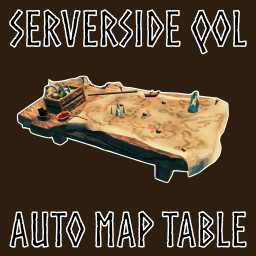
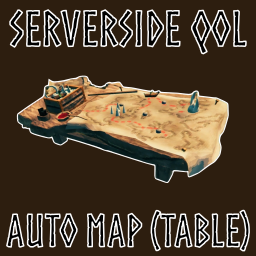
Add granular pin target config and ref struct updates
Added config options for dungeon/ore pin targets (map tables, player maps, or both) via new PinTargets enum. Updated AutoMapTablesProcessor and pin logic to respect these settings. Added RPC for adding pins to player maps and extended ZDORpc.PlayerRpc with AddMapPin. Changed several structs to ref struct for safety/performance. Improved docs and made minor SVG/icon text tweaks.

Changed region(s): [[0.0, 0.8125, 1.0, 1.0]]

diff --git a/ServersideQoL.AutoMapTables/AutoMapTablesProcessor.cs b/ServersideQoL.AutoMapTables/AutoMapTablesProcessor.cs
@@ -1,6 +1,5 @@
 using ServersideQoL.Processors;
 using ServersideQoL.Utilities;
-using System.ComponentModel;
 using UnityEngine;
 using YamlDotNet.Core.Tokens;
 
@@ -243,9 +242,15 @@ public sealed class AutoMapTablesProcessor : Processor<AutoMapTablesProcessor.Pr
         zdo.Destroyed += OnOreDepositDestroyed;
         ids ??= __playerIDsVar.Get(zdo) ?? [];
         ids.Add(playerID);
-        playerState.UpToDateMapTables.Clear();
-        if (prefabInfo.MineRockPinConfig.PinType.Value is not Minimap.PinType.None)
-          ShowMessage([peer], zdo, Config.Instance.Localization.Value.Discovered(prefabInfo.MineRock5.m_name), Config.Instance.DiscoveredMessageType.Value);
+
+        if (prefabInfo.MineRockPinConfig.PinType.Value is Minimap.PinType.None)
+          continue;
+
+        ShowMessage([peer], zdo, Config.Instance.Localization.Value.Discovered(prefabInfo.MineRock5.m_name), Config.Instance.DiscoveredMessageType.Value);
+        if ((Config.Instance.OreDepositsPinTarget.Value & Config.PinTargets.MapTable) is not 0)
+          playerState.UpToDateMapTables.Clear();
+        if ((Config.Instance.OreDepositsPinTarget.Value & Config.PinTargets.DiscoveringPlayer) is not 0)
+          RPC.DiscoverLocationResponse(peer.ZNetPeer.m_uid, prefabInfo.MineRockPinConfig.Label.Value, prefabInfo.MineRockPinConfig.PinType.Value, zdo.ZDO.GetPosition(), showMap: false);
       }
       if (ids is not null)
         __playerIDsVar.Set(zdo, ids);
@@ -282,9 +287,15 @@ public sealed class AutoMapTablesProcessor : Processor<AutoMapTablesProcessor.Pr
             continue;
           ids ??= __playerIDsVar.Get(zdo) ?? [];
           ids.Add(playerID);
-          playerState.UpToDateMapTables.Clear();
-          if (Config.Instance.DungeonsPinType.Value is not Minimap.PinType.None)
-            ShowMessage([peer], zdo, Config.Instance.Localization.Value.Discovered(component.m_enterText), Config.Instance.DiscoveredMessageType.Value);
+
+          if (Config.Instance.DungeonsPinType.Value is Minimap.PinType.None)
+            continue;
+
+          ShowMessage([peer], zdo, Config.Instance.Localization.Value.Discovered(component.m_enterText), Config.Instance.DiscoveredMessageType.Value);
+          if ((Config.Instance.DungeonsPinTarget.Value & Config.PinTargets.MapTable) is not 0)
+            playerState.UpToDateMapTables.Clear();
+          if ((Config.Instance.DungeonsPinTarget.Value & Config.PinTargets.DiscoveringPlayer) is not 0)
+            RPC.DiscoverLocationResponse(peer.ZNetPeer.m_uid, Config.Instance.DungeonsLabel.Value is Config.DefaultOreDepositName ? component.m_enterText : Config.Instance.DungeonsLabel.Value, Config.Instance.DungeonsPinType.Value, zdo.ZDO.GetPosition(), showMap: false);
         }
 
         break;
@@ -398,7 +409,7 @@ public sealed class AutoMapTablesProcessor : Processor<AutoMapTablesProcessor.Pr
           _pins.Add(new(playerState.PlayerID.AsModPlayerID(), GetProcessorPrefabInfo(zdo)!.Piece!.m_name, zdo.ZDO.GetPosition(), Config.Instance.ShipsPinType.Value, false, AutoMapTablesPlugin.PluginGuid));
       }
 
-      if (_oreDepositPins.Count is not 0)
+      if (_oreDepositPins.Count is not 0 && (Config.Instance.OreDepositsPinTarget.Value & Config.PinTargets.MapTable) is not 0)
       {
         foreach (var zdo in playerState.OreVeins)
         {
@@ -407,7 +418,7 @@ public sealed class AutoMapTablesProcessor : Processor<AutoMapTablesProcessor.Pr
         }
       }
 
-      if (Config.Instance.DungeonsPinType.Value is not Minimap.PinType.None)
+      if (Config.Instance.DungeonsPinType.Value is not Minimap.PinType.None && (Config.Instance.DungeonsPinTarget.Value & Config.PinTargets.MapTable) is not 0)
       {
         List<(ServersideQoLZDO, Vector3, string)>? updatedPos = null;
         foreach (var (zdo, nullableValue) in playerState.Dungeons)
@@ -519,7 +530,7 @@ public sealed class AutoMapTablesProcessor : Processor<AutoMapTablesProcessor.Pr
     {
       if (!_playerStates.TryGetValue(id, out var state))
         continue;
-      if (state.OreVeins.Remove(zdo))
+      if (state.OreVeins.Remove(zdo) && (Config.Instance.OreDepositsPinTarget.Value & Config.PinTargets.MapTable) is not 0)
         state.UpToDateMapTables.Clear();
     }
   }

diff --git a/ServersideQoL/ServersideQoLZDO.ZDORpc.cs b/ServersideQoL/ServersideQoLZDO.ZDORpc.cs
@@ -1,5 +1,4 @@
 using ServersideQoL.Utilities;
-using System.Runtime.CompilerServices;
 using UnityEngine;
 using static ServersideQoL.RPC;
 
@@ -9,12 +8,12 @@ partial class ServersideQoLZDO
 {
   public ZDORpc RPC => new(this);
 
-  public readonly struct ZDORpc(ServersideQoLZDO zdo)
+  public readonly ref struct ZDORpc(ServersideQoLZDO zdo)
   {
     readonly ServersideQoLZDO _zdo = zdo;
 
     public PlayerRpc Player => new(_zdo);
-    public readonly struct PlayerRpc(ServersideQoLZDO zdo)
+    public readonly ref struct PlayerRpc(ServersideQoLZDO zdo)
     {
       readonly ZDO _zdo = AssertAndGetZDO<Player>(zdo);
 
@@ -25,10 +24,13 @@ partial class ServersideQoLZDO
       /// <see cref="Player.TeleportTo(Vector3, Quaternion, bool)"/>
       public void TeleportTo(Vector3 pos, Quaternion rot, bool distantTeleport)
         => InvokeRoutedRPC(_zdo.GetOwner(), _zdo.m_uid, RpcName.Player.TeleportTo, parameters: [pos, rot, distantTeleport]);
+
+      public void AddMapPin(string pinName, Minimap.PinType pinType, Vector3 pos, bool showMap)
+        => DiscoverLocationResponse(_zdo.GetOwner(), pinName, pinType, pos, showMap);
     }
 
     public CharacterRpc Character => new(_zdo);
-    public readonly struct CharacterRpc(ServersideQoLZDO zdo)
+    public readonly ref struct CharacterRpc(ServersideQoLZDO zdo)
     {
       readonly ZDO _zdo = AssertAndGetZDO<Character>(zdo);
 
@@ -46,7 +48,7 @@ partial class ServersideQoLZDO
     }
 
     public ContainerRpc Container => new(_zdo);
-    public readonly struct ContainerRpc(ServersideQoLZDO zdo)
+    public readonly ref struct ContainerRpc(ServersideQoLZDO zdo)
     {
       readonly ZDO _zdo = AssertAndGetZDO<Container>(zdo);
 
@@ -85,7 +87,7 @@ partial class ServersideQoLZDO
     }
 
     public TeleportWorldRpc TeleportWorld => new(_zdo);
-    public readonly struct TeleportWorldRpc(ServersideQoLZDO zdo)
+    public readonly ref struct TeleportWorldRpc(ServersideQoLZDO zdo)
     {
       readonly ZDO _zdo = AssertAndGetZDO<TeleportWorld>(zdo);
 
@@ -95,7 +97,7 @@ partial class ServersideQoLZDO
     }
 
     public PieceRpc Piece => new(_zdo);
-    public readonly struct PieceRpc(ServersideQoLZDO zdo)
+    public readonly ref struct PieceRpc(ServersideQoLZDO zdo)
     {
       readonly ZDO _zdo = AssertAndGetZDO<Piece>(zdo);
 
@@ -105,7 +107,7 @@ partial class ServersideQoLZDO
     }
 
     public ItemDropRpc ItemDrop => new(_zdo);
-    public readonly struct ItemDropRpc(ServersideQoLZDO zdo)
+    public readonly ref struct ItemDropRpc(ServersideQoLZDO zdo)
     {
       readonly ZDO _zdo = AssertAndGetZDO<ItemDrop>(zdo);
 
@@ -115,7 +117,7 @@ partial class ServersideQoLZDO
     }
 
     public TrapRpc Trap => new(_zdo);
-    public readonly struct TrapRpc(ServersideQoLZDO zdo)
+    public readonly ref struct TrapRpc(ServersideQoLZDO zdo)
     {
       readonly ZDO _zdo = AssertAndGetZDO<Trap>(zdo);
 
@@ -126,7 +128,7 @@ partial class ServersideQoLZDO
     }
 
     public MineRock5Rpc MineRock5 => new(_zdo);
-    public readonly struct MineRock5Rpc(ServersideQoLZDO zdo)
+    public readonly ref struct MineRock5Rpc(ServersideQoLZDO zdo)
     {
       readonly ZDO _zdo = AssertAndGetZDO<MineRock5>(zdo);
 

diff --git a/ServersideQoL.AutoMapTables/Config.cs b/ServersideQoL.AutoMapTables/Config.cs
@@ -16,15 +16,23 @@ public sealed class Config(ConfigFile cfg, Logger logger) : ConfigBase<Config>(c
   public ConfigEntry<Minimap.PinType> ShipsPinType { get; } = BindEx(cfg, Minimap.PinType.Player,
     "The pin type for ships on the map table", new AcceptableEnum<Minimap.PinType>([..__acceptablePins.AcceptableValues, Minimap.PinType.Player]));
   public ConfigEntry<Minimap.PinType> DungeonsPinType { get; } = BindEx(cfg, Minimap.PinType.Icon2,
-    "The pin type for dungeons on the map table", __acceptablePins);
+    "The pin type for dungeons on the map table", __acceptablePins);    
   public ConfigEntry<string> DungeonsLabel { get; } = BindEx(cfg, DefaultOreDepositName,
     "The pin label for dungeons");
+  public ConfigEntry<PinTargets> DungeonsPinTarget { get; } = BindEx(cfg, PinTargets.MapTable, """
+    Whether to add the pin to map tables, the map of the discovering player or both.
+    WARNING: Pins added to player maps can only be removed by the players themselves and will remain even if the mod is removed.
+    """);
   public ConfigEntry<float> DungeonsDiscoverRange { get; } = BindEx(cfg, 4f,
     "A dungeon is considered 'discovered by a player' when that player is detected within this range around the entrance");
 
   public sealed record OreDepositConfig(ConfigEntry<Minimap.PinType> PinType, ConfigEntry<string> Label);
   public IReadOnlyDictionary<int, OreDepositConfig> AutoUpdateOreDeposits { get; } = GetPrefabPinConfig(cfg, logger) ?? EmptyReadOnlyCollections<int, OreDepositConfig>.Dictionary;
 
+  public ConfigEntry<PinTargets> OreDepositsPinTarget { get; } = BindEx(cfg, PinTargets.MapTable, """
+    Whether to add the pin to map tables, the map of the discovering player or both.
+    WARNING: Pins added to player maps can only be removed by the players themselves and will remain even if the mod is removed.
+    """);
   public ConfigEntry<float> OreDepositsDiscoverRange { get; } = BindEx(cfg, ZoneSystem.c_ZoneSizeHalf,
     "An ore deposit is considered 'discovered by a player' when that player was within this range around the deposit while it was struck by a pickaxe");
 
@@ -36,6 +44,14 @@ public sealed class Config(ConfigFile cfg, Logger logger) : ConfigBase<Config>(c
     "True to discard custom player pins from map tables");
   public YamlConfigEntry<LocalizationConfig> Localization { get; } = BindYaml<LocalizationConfig>(cfg);
   public YamlConfigEntry<AdvancedConfig> Advanced { get; } = BindYaml<AdvancedConfig>(cfg);
+
+  [Flags]
+  public enum PinTargets
+  {
+    MapTable = 1 << 0,
+    DiscoveringPlayer = 1 << 1,
+    //AllPlayers = 1 << 2,
+  }
 
   public sealed class LocalizationConfig
   {

diff --git a/ServersideQoL/RPC.cs b/ServersideQoL/RPC.cs
@@ -36,6 +36,11 @@ public static class RPC
       public static RpcName GlobalKeys { get; } = new("GlobalKeys");
     }
 
+    public static class Game
+    {
+      public static RpcName DiscoverLocationResponse { get; } = new("RPC_DiscoverLocationResponse");
+    }
+
     public static class DamageText
     {
       public static RpcName RPC_DamageText { get; } = new("RPC_DamageText");
@@ -149,11 +154,9 @@ public static class RPC
   //public static void ShowInWorldText(Peer peer, DamageText.TextType type, Vector3 pos, string text)
   //    => ShowInWorldText([peer.m_uid], type, pos, text);
 
+  /// <see cref="Chat.TeleportPlayer(long, Vector3, Quaternion, bool)"/>
   static void TeleportPlayer(long targetPeerID, Vector3 pos, Quaternion rot, bool distantTeleport)
-  {
-    /// <see cref="Chat.TeleportPlayer(long, Vector3, Quaternion, bool)"/>
-    InvokeRoutedRPC(targetPeerID, RpcName.Chat.TeleportPlayer, parameters: [pos, rot, distantTeleport]);
-  }
+    => InvokeRoutedRPC(targetPeerID, RpcName.Chat.TeleportPlayer, parameters: [pos, rot, distantTeleport]);
 
   public static void TeleportPlayer(Peer peer, Vector3 pos, Quaternion rot, bool distantTeleport)
       => TeleportPlayer(peer.ZNetPeer.m_uid, pos, rot, distantTeleport);
@@ -161,11 +164,13 @@ public static class RPC
   public static void SpawnObject(Vector3 pos, Quaternion rot, int prefab)
     => SpawnObject(ZRoutedRpc.Everybody, pos, rot, prefab);
 
+  /// <see cref="ZNetScene.SpawnObject(Vector3, Quaternion, GameObject)"/>
   public static void SpawnObject(long targetPeerID, Vector3 pos, Quaternion rot, int prefab)
-  {
-    /// <see cref="ZNetScene.SpawnObject(Vector3, Quaternion, GameObject)"/>
-    InvokeRoutedRPC(targetPeerID, RpcName.ZNetScene.SpawnObject, parameters: [pos, rot, prefab]);
-  }
+    => InvokeRoutedRPC(targetPeerID, RpcName.ZNetScene.SpawnObject, parameters: [pos, rot, prefab]);
+
+  /// <see cref="Game.DiscoverClosestLocation(string, Vector3, string, int, bool, bool)"/>
+  public static void DiscoverLocationResponse(long targetPeerID, string pinName, Minimap.PinType pinType, Vector3 pos, bool showMap)
+    => InvokeRoutedRPC(targetPeerID, RpcName.Game.DiscoverLocationResponse, parameters: [pinName, (int)pinType, pos, showMap]);
 
   const string NameOfZdoRpc = $"{nameof(ServersideQoLZDO)}.{nameof(ServersideQoLZDO.RPC)}";
   const string NameOfZdoPlayerRpc = $"{NameOfZdoRpc}.{nameof(ServersideQoLZDO.RPC.Player)}";

diff --git a/ServersideQoL.PrefabConfigurator/Config.cs b/ServersideQoL.PrefabConfigurator/Config.cs
@@ -19,8 +19,11 @@ public sealed class Config(ConfigFile cfg, Logger logger) : ConfigBase<Config>(c
 
   public sealed class FireplacesConfig(ConfigFile cfg, [CallerMemberName] string section = default!)
   {
-    public ConfigEntry<bool> MakeToggleable { get; } = BindEx(cfg, section, false,
-      "True to make all fireplaces (including torches, braziers, etc.) toggleable");
+    public ConfigEntry<bool> MakeToggleable { get; } = BindEx(cfg, section, false, """
+      True to make all fireplaces/lightsources (including torches, braziers, etc.) toggleable.
+      BEWARE: toggleable fireplaces/lightsources will be toggled off automatically by rain/heavy wind.
+      """);
+      
     public ConfigEntry<bool> InfiniteFuel { get; } = BindEx(cfg, section, false,
       "True to make all fireplaces have infinite fuel");
   }

diff --git a/ServersideQoL/ServersideQoLZDO.ZDOVars.cs b/ServersideQoL/ServersideQoLZDO.ZDOVars.cs
@@ -9,7 +9,7 @@ partial class ServersideQoLZDO
 {
   public ZDOVars Vars => new(ZDO);
 
-  public readonly struct ZDOVars(ZDO zdo)
+  public readonly ref struct ZDOVars(ZDO zdo)
   {
     readonly ZDO _zdo = zdo;
 
